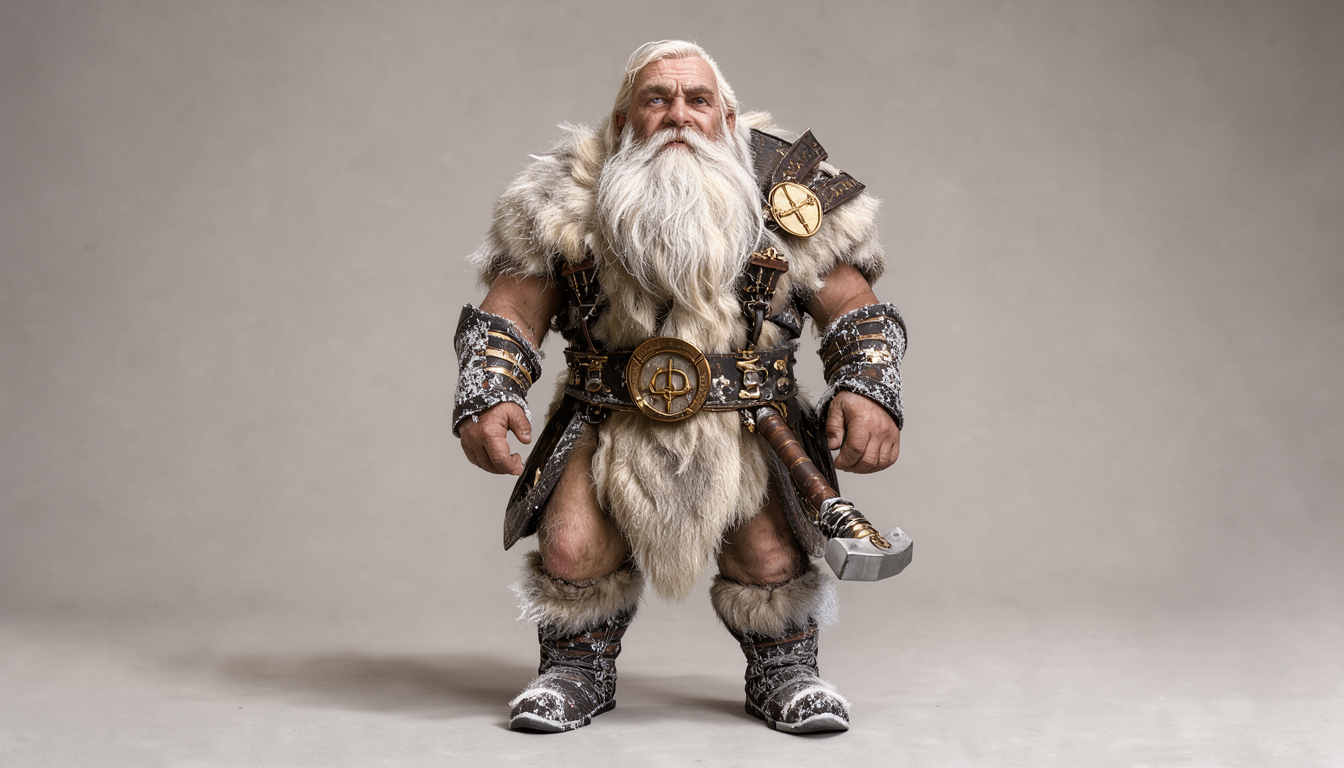
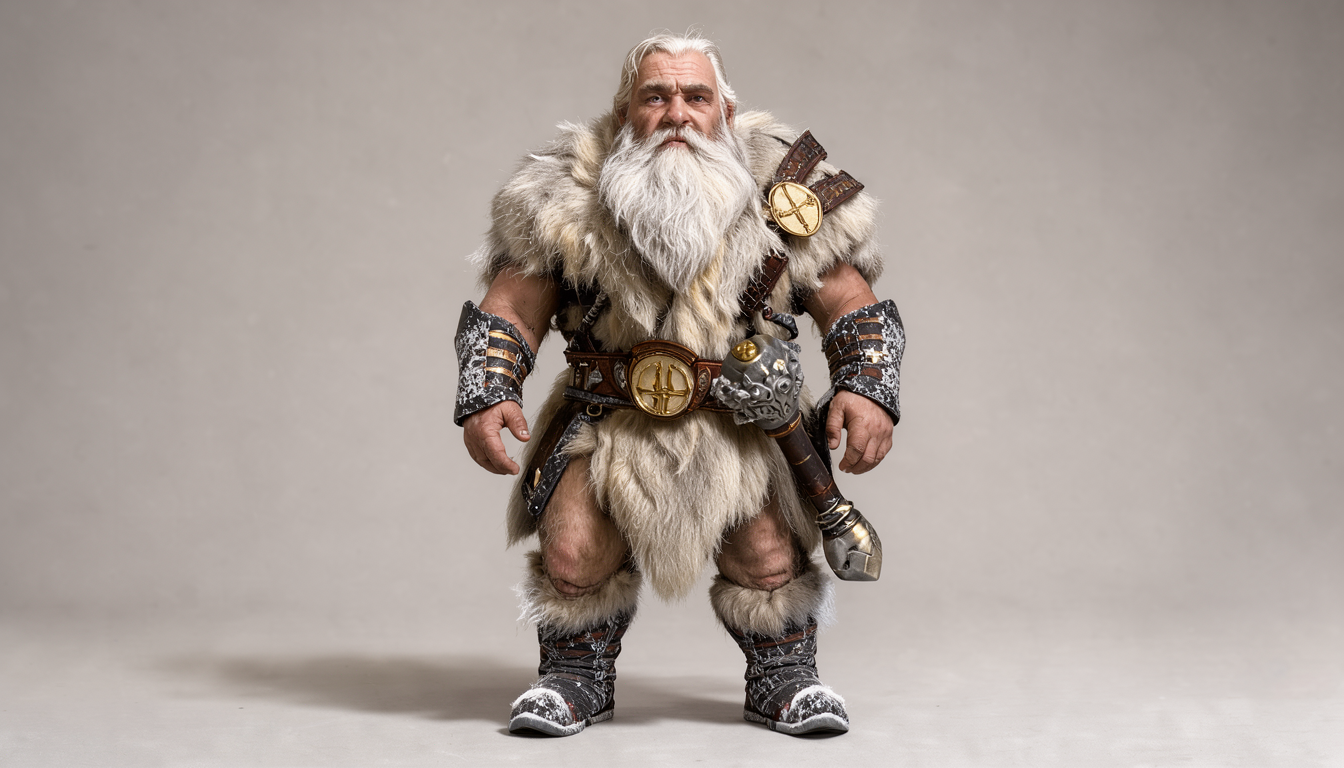
sheet-test: Gulgrim lab batch 2 — warhammer worn at hip, versioned snapshot

diff --git a/tests/test_gulgrimlab.py b/tests/test_gulgrimlab.py
@@ -12,13 +12,15 @@ LAB_PROMPTS = os.path.join(LAB_DIR, "prompts.json")
 KEYS = [f"gulgrim_g{i:02d}" for i in range(1, 5)]
 SEEDS = [424242, 424243, 777001, 424244]
 GULGRIM_URL = RACE_URL[SLUG_RACE["gulgrim"]]
-# Batch 1: Arm B Gulgrim block verbatim — the starting point both other
-# labs used. Future batches replace this constant with their revised
-# block; the assertion below is the lab's wording ledger.
-BATCH1_BLOCK = (
+# Batch 2: warhammer worn at the hip — batch-1 verdict was0/4 clean
+# warhammers from the bare word `warhammer` (improvised grips, axe-head
+# drift). Position is the single variable; future batches replace this
+# constant with their revised block; the assertion below is the lab's
+# wording ledger.
+BATCH2_BLOCK = (
     "adult male hill dwarf cleric, short stocky, broad long white beard, heavy furs, "
-    "frost-covered boots, warhammer, standing well under five feet tall, broad and compact, "
-    "holy symbol of Marthammor Du, exactly two arms"
+    "frost-covered boots, his warhammer at his hip, standing well under five feet tall, "
+    "broad and compact, holy symbol of Marthammor Du, exactly two arms"
 )
 
 
@@ -31,7 +33,7 @@ class TestGulgrimLabDescriptions(unittest.TestCase):
 
     def test_baseline_block_is_arm_b_verbatim(self):
         text, sources = self.load_block()
-        self.assertEqual(text, BATCH1_BLOCK, "batch 1 must be the Arm B Gulgrim block verbatim")
+        self.assertEqual(text, BATCH2_BLOCK, "block must be the pinned batch-2 wording")
         self.assertIn("character-bible/Sheets/Gulgrim.pdf", sources)
         self.assertIn(GULGRIM_URL, sources)
         self.assertTrue(any("bible.md locked chunks" in s for s in sources))
@@ -52,7 +54,7 @@ class TestGulgrimLabPrompts(unittest.TestCase):
             self.assertEqual(entry["arm"], "C")
             self.assertEqual(entry["seed"], SEEDS[i], f"{key} seed mismatch")
             self.assertEqual(entry["frame"], FRAME_C)
-            self.assertEqual(entry["prompt"], f"{FRAME_C} {ADDENDUM} {BATCH1_BLOCK}", f"{key} not exact composition")
+            self.assertEqual(entry["prompt"], f"{FRAME_C} {ADDENDUM} {BATCH2_BLOCK}", f"{key} not exact composition")
             self.assertIn(entry["output"], (None, f"img/{key}.png"))
             self.assertEqual(list(entry["species_sources"].values()), [GULGRIM_URL])
 

diff --git a/character-bible/sheet-test/gulgrim-lab/descriptions.md b/character-bible/sheet-test/gulgrim-lab/descriptions.md
@@ -1,15 +1,18 @@
-# Gulgrim Lab — baseline block for seed-robustness testing
+# Gulgrim Lab — block source for seed-robustness testing
 
-Single block source for `gulgrim-lab`. Batch 1 is the Arm B Gulgrim
-block verbatim (the starting point, as the Shade and Keechwah labs began
-from their Arm B blocks). Known failure modes from the bible NEVER list
-to watch for: tall, thin, no-beard, missing his heavy furs (furs stay on
-in every panel, indoors or out). Canon conflict already resolved in the
-block: warhammer (bible wins over the sheet's mace).
+Single block source for `gulgrim-lab`. Batch 2 wording: the warhammer is
+now **worn at his hip** (batch-1 verdict: the bare word `warhammer`
+rendered 0/4 clean warhammers and improvised grips — position isolated as
+the single variable, head shape left alone for a later batch if it
+drifts again). Batch 1 was the Arm B Gulgrim block verbatim (baseline,
+snapshot in `batches/batch1/`). Known failure modes from the bible NEVER
+list to watch for: tall, thin, no-beard, missing his heavy furs (furs
+stay on in every panel, indoors or out). Canon conflict already resolved
+in the block: warhammer (bible wins over the sheet's mace).
 
 ## Gulgrim (gulgrim)
 
-adult male hill dwarf cleric, short stocky, broad long white beard, heavy furs, frost-covered boots, warhammer, standing well under five feet tall, broad and compact, holy symbol of Marthammor Du, exactly two arms
+adult male hill dwarf cleric, short stocky, broad long white beard, heavy furs, frost-covered boots, his warhammer at his hip, standing well under five feet tall, broad and compact, holy symbol of Marthammor Du, exactly two arms
 
 Sources:
 - character-bible/Sheets/Gulgrim.pdf

diff --git a/character-bible/sheet-test/gulgrim-lab/batches/batch2/descriptions.md b/character-bible/sheet-test/gulgrim-lab/batches/batch2/descriptions.md
@@ -1,0 +1,20 @@
+# Gulgrim Lab — block source for seed-robustness testing
+
+Single block source for `gulgrim-lab`. Batch 2 wording: the warhammer is
+now **worn at his hip** (batch-1 verdict: the bare word `warhammer`
+rendered 0/4 clean warhammers and improvised grips — position isolated as
+the single variable, head shape left alone for a later batch if it
+drifts again). Batch 1 was the Arm B Gulgrim block verbatim (baseline,
+snapshot in `batches/batch1/`). Known failure modes from the bible NEVER
+list to watch for: tall, thin, no-beard, missing his heavy furs (furs
+stay on in every panel, indoors or out). Canon conflict already resolved
+in the block: warhammer (bible wins over the sheet's mace).
+
+## Gulgrim (gulgrim)
+
+adult male hill dwarf cleric, short stocky, broad long white beard, heavy furs, frost-covered boots, his warhammer at his hip, standing well under five feet tall, broad and compact, holy symbol of Marthammor Du, exactly two arms
+
+Sources:
+- character-bible/Sheets/Gulgrim.pdf
+- https://www.dndbeyond.com/species/13-dwarf
+- bible.md locked chunks (main checkout)

diff --git a/character-bible/sheet-test/gulgrim-lab/README.md b/character-bible/sheet-test/gulgrim-lab/README.md
@@ -20,6 +20,7 @@ lab, so 424244 takes its slot). Approved reference for judging:
 |---|---|---|
 | batch1 | Baseline: Arm B Gulgrim block verbatim — snapshot: `batches/batch1/` | gulgrim_g01–g04 (424242, 424243, 777001, 424244) |
 | batch1 verdict (human 2026-11-03) | Furs/beard/stockiness/NEVER-list hold on all four; weapon fails everywhere (0/4 clean warhammer); g04 renders grey hands — kept in ladder pending batch-2 re-check | — |
+| batch2 | Weapon worn, not gripped: bare `warhammer` → `his warhammer at his hip` (batch-1 verdict); head shape untouched — single variable — snapshot: `batches/batch2/` | same gulgrim_g01–g04 |
 
 ## Verdicts
 
